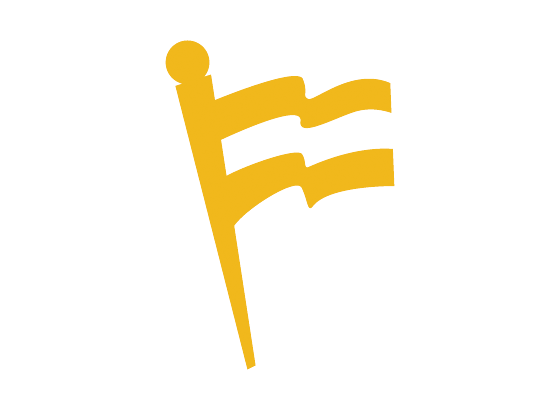
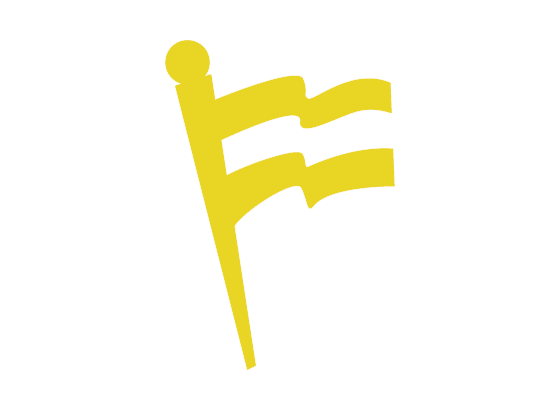
Changed club description image color to correspond with category image colors. Resized favorited star to fit button. Fixed the bug where empty class printed Fr in class label.

Changed region(s): [[0.2732, 0.0878, 0.7286, 0.9073]]

diff --git a/SAO/SAOProfileViewController.m b/SAO/SAOProfileViewController.m
@@ -43,7 +43,10 @@
 
     // Class category
     // [Ff]: freshman; [So]: sophomore; [Jj]: junior; [Ss]enior
-    if ([class rangeOfString:@"f" options:NSCaseInsensitiveSearch].location != NSNotFound) {
+    if (class == NULL) {
+        class = @"";
+
+    } else if ([class rangeOfString:@"f" options:NSCaseInsensitiveSearch].location != NSNotFound) {
         class = @"Fr";
 
     } else if ([class rangeOfString:@"so" options:NSCaseInsensitiveSearch].location != NSNotFound) {

diff --git a/SAO/SAOClubTableViewController.m b/SAO/SAOClubTableViewController.m
@@ -97,8 +97,9 @@
 	[cache removeAllCachedResponses];
 
 	NSString *urlAddress = @"http://www.nd.edu/~sao/SAO_App/clubs.csv";
+//    NSString *urlAddress = @"http://www3.nd.edu/~kngo/clubs.csv";
 	NSURL *url = [NSURL URLWithString:urlAddress];
-	
+
 	SAOTabBarController * tabBarController = (SAOTabBarController*)self.tabBarController;
 	if (tabBarController.parser.isParsing) {
 		return;
